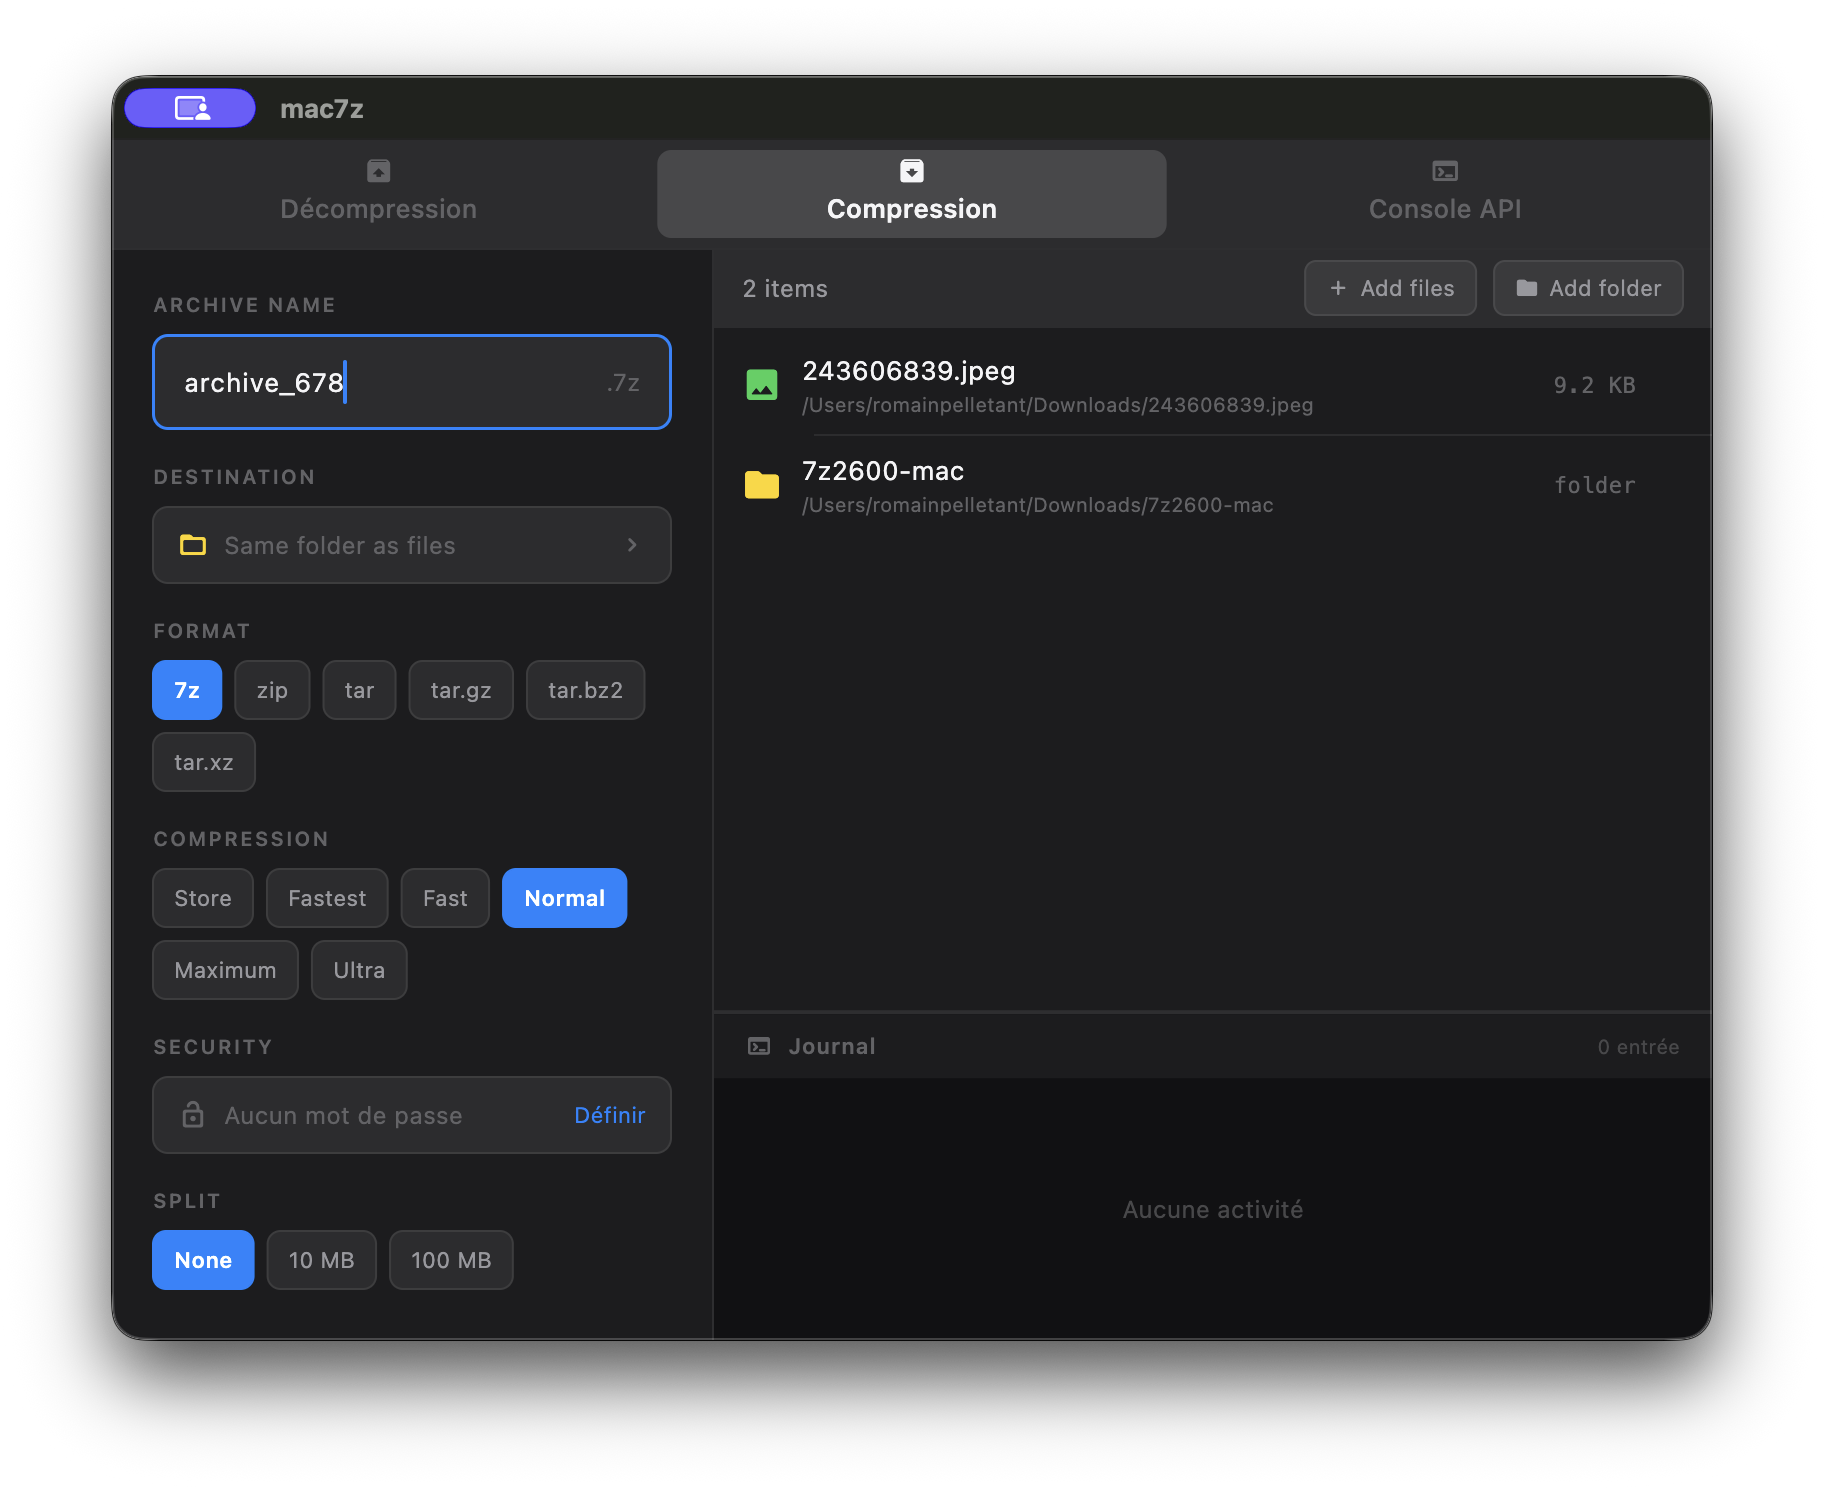
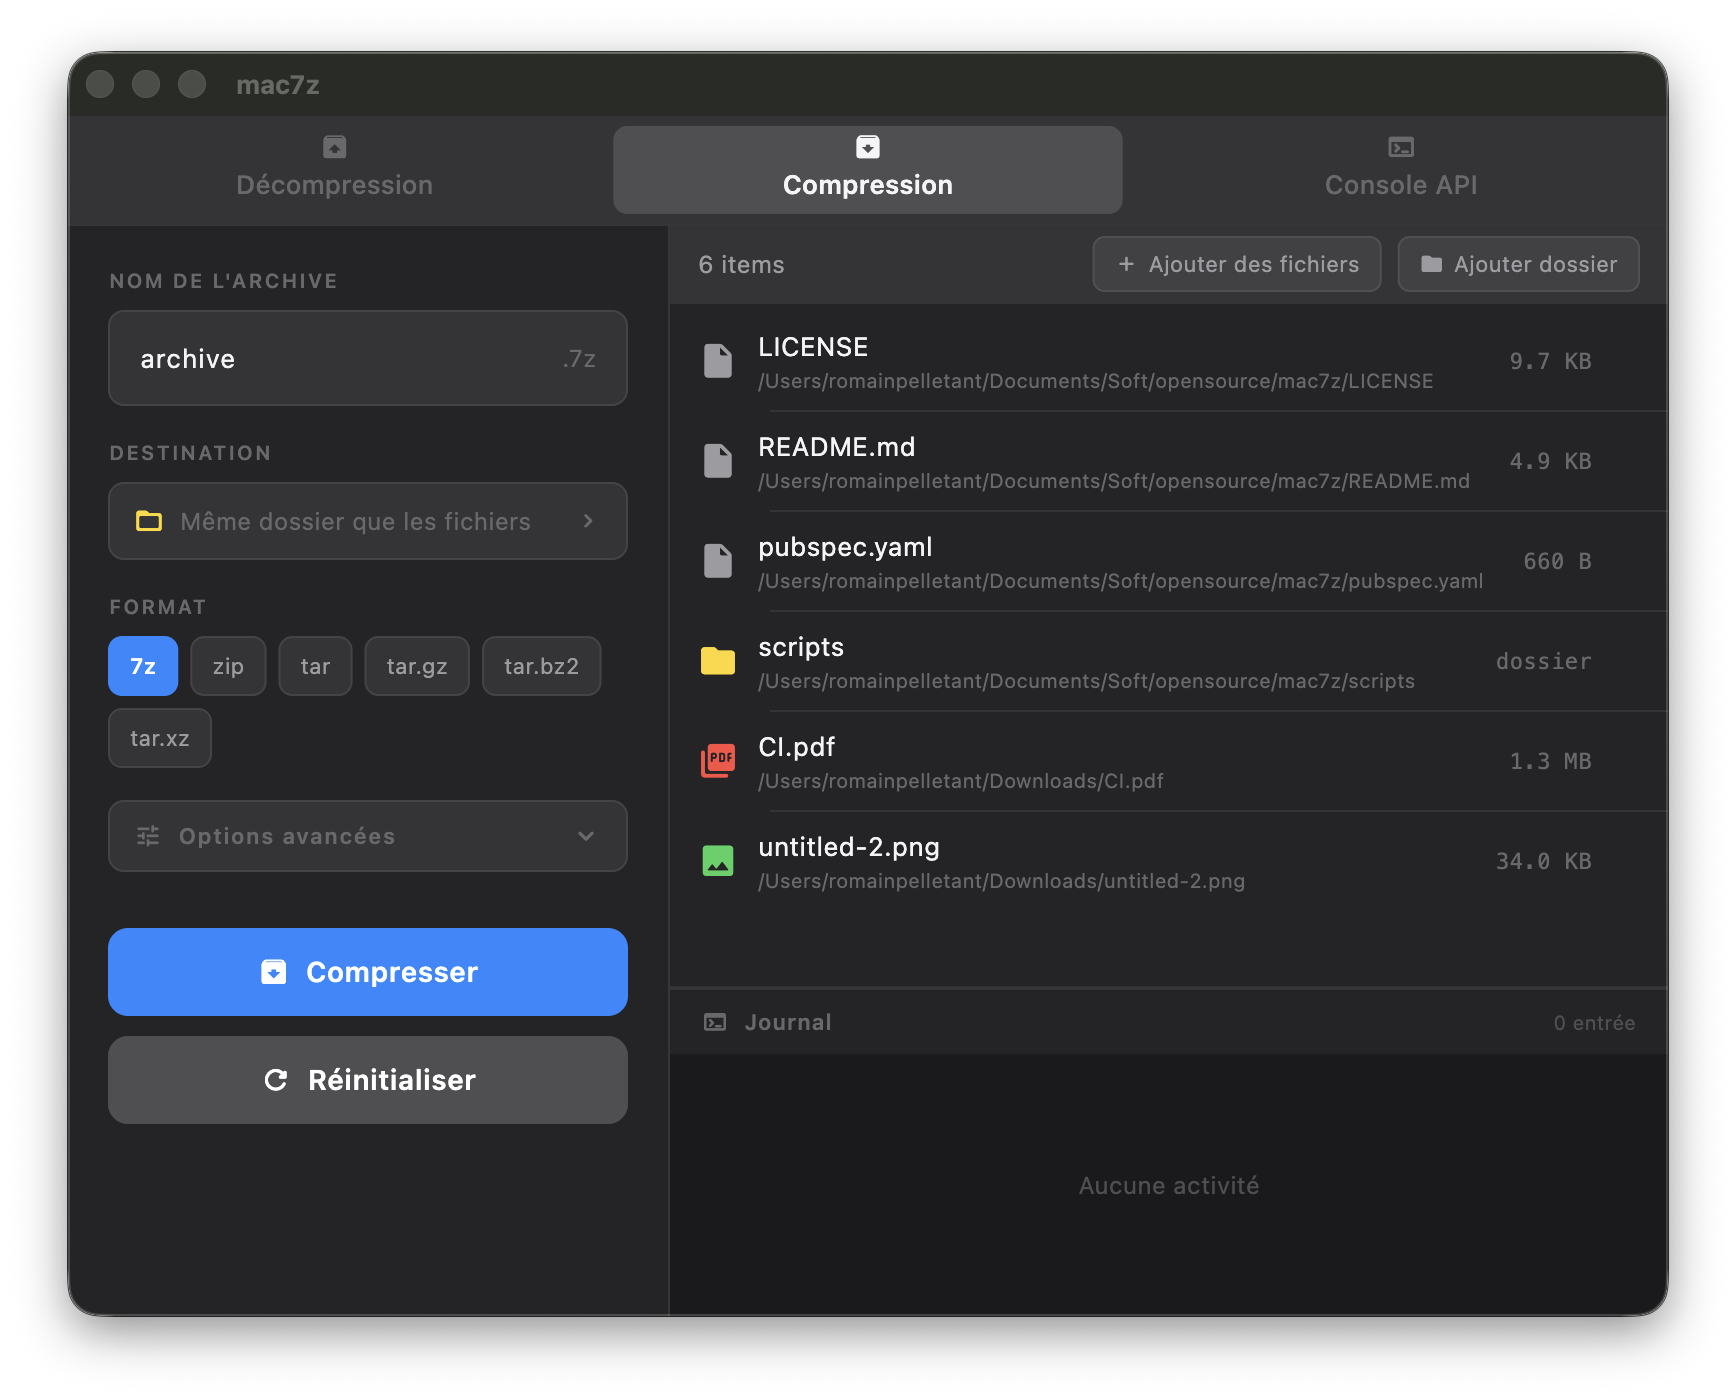
rel: prepare next version v0.9.5
- Update pictures
- Update version
- Update website version to 0.9.5

diff --git a/docs/index.html b/docs/index.html
@@ -499,7 +499,7 @@
       <a href="#features">Features</a>
       <a href="#install">Install</a>
       <a href="https://github.com/romainpelletant/mac7z" target="_blank">GitHub</a>
-      <span class="nav-badge">v0.9.4</span>
+      <span class="nav-badge">v0.9.5</span>
     </div>
   </nav>
 